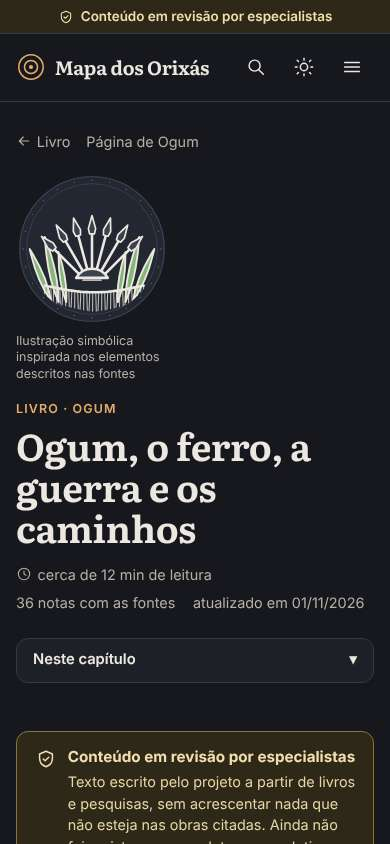
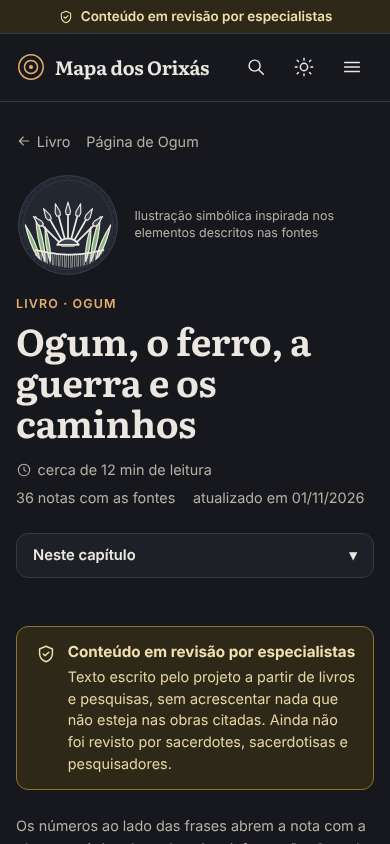
Ilustrações: relatório, screenshots, README, ESTADO e PENDENCIAS
Claude-Session: https://claude.ai/code/session_011fM5ckSQifz6KKDaWWmYVy

Changed region(s): [[0.0308, 0.2156, 0.9846, 1.0], [0.8923, 0.6469, 0.9231, 0.6777]]

diff --git a/docs/pesquisa/ilustracoes-01.md b/docs/pesquisa/ilustracoes-01.md
@@ -1,0 +1,81 @@
+# Ilustrações 01 — uma ilustração simbólica por orixá
+
+**Sessão:** ilustra (trabalhadora, coordenada pela orquestradora), 2026-11-02.
+**Pedido do autor:** uma ilustração de boa qualidade para cada orixá com ficha/capítulo e, se fizer sentido, para as entidades da cosmologia.
+**Resultado:** 22 ilustrações (17 orixás + Orum, Aiê, Odudua, Olokun e Orí), no topo da página de cada um, no cartão do catálogo e na abertura do capítulo. Sem ilustração: Iyami (tema sensível), Ewá (sem símbolos fichados), Olodumare e Egungun (motivos em §4). `data/fichamento/`, capítulos, catálogo e itãs **não foram tocados**.
+
+## 1. Critérios
+
+1. **Emblema, não retrato.** Nenhum rosto ou corpo de divindade, nenhuma cena de culto, transe, dança ou ritual. Cada ilustração é uma composição de objetos, plantas, paisagens e sinais (ferramentas, emblemas, águas, árvores, céu).
+2. **Só o que está fichado.** Todo elemento desenhado tem pelo menos um registro com status `fichado` em `data/fichamento/` (atributos `simbolos`, `elementos`, `dominios`, `iconografia`; em alguns casos `itans`, `hierarquia` ou `funcoes`, quando o elemento só aparece ali). `data/ilustracoes.json` lista, para cada elemento, os ids que o sustentam; o QA confere que existem e estão fichados. Detalhes que as fontes não dão ficaram de fora ou foram desenhados de modo genérico, sem afirmar nada (ex.: o número de varetas do chachará, de contas do opelê ou de búzios em Orí é só gráfico, e isso está anotado).
+3. **Cores sem "cor oficial".** Base na paleta do site (papel quente, traço da página, tom claro de "metal"). **No máximo um acento**, e só quando a cor aparece em **mais de uma tradição** nos registros de `cores`: verde (Ogum, Oxóssi), vermelho (Exu, Xangô, Iansã), azul (Iemanjá), ouro (Oxum), violeta (Nanã). Nos demais, sem acento de cor do orixá: o ocre do site aparece só como cor de material (palha, barro, terra, folhas, nozes). A justificativa e os registros de cor estão em `data/ilustracoes.json`. Em Exu, o preto não entra para não reforçar a leitura demonizada que as fontes discutem.
+4. **Evitar estereótipo.** Nada de exotismo, caricatura ou figuras "tribais". Em Exu ficaram fora o tridente, chifres e falo (imagens da leitura europeia e da associação ao diabo, que as fontes registram e criticam); em Omolu, a figura coberta de palha (só a palha como material); em Ibeji, as estatuetas (só motivos abstratos e os três pratinhos de barro).
+
+## 2. Técnica
+
+- **SVG vetorial desenhado em código**, sem imagens de terceiros, bancos de imagem ou obras de referência: `site/scripts/ilustracoes/desenhos.py` (uma função por entidade, coordenadas escritas à mão, com geometria calculada onde ajuda: leques, anéis, ondas) e `base.py` (medalhão comum). `gerar.py` grava `site/src/assets/ilustracoes/<id>.svg` usando o texto alternativo de `data/ilustracoes.json`.
+- **Estilo coeso:** medalhão 200×200 com disco, dois anéis e uma coroa de pontos (o mesmo vocabulário de círculos concêntricos da capa), traço arredondado de espessura constante, tom claro para metais e objetos, um acento.
+- **Claro e escuro:** o traço é `currentColor`; fundo, anéis, tom claro e acentos usam variáveis `--il-*` definidas em `global.css` para os dois temas (com valores de reserva no próprio SVG, para o arquivo solto).
+- **Acessibilidade:** cada SVG tem `role="img"` e `<title>` com id único, ligado por `aria-labelledby`; o texto alternativo descreve o que se vê ("Ilustração simbólica de Ogum: emblema de ferro com sete pontas…"). Na página e no capítulo vai dentro de `<figure>` com a legenda "Ilustração simbólica inspirada nos elementos descritos nas fontes"; no catálogo, um parágrafo acima da grade explica que as imagens são ilustrações simbólicas, nunca retratos.
+- **Peso:** 3–10 KB por SVG, inline (sem pedido extra). O svgo não estava instalado no ambiente; o gerador já escreve números com uma casa decimal e sem atributos redundantes. Fica como melhoria opcional.
+- **Revisão de qualidade:** 3 pilotos (Ogum, Iemanjá, Xangô) renderizados em PNG (claro/escuro, 320 px e 72 px) por `site/scripts/ilustracoes/renderizar.cjs` e revistos antes da série; cada lote seguinte também foi renderizado e corrigido (ex.: em Ogum as folhas brigavam com o leque e o centro parecia um sol; em Xangô o raio era cortado pela borda; em Oxumarê as cabeças de serpente ficaram caricatas e viraram pontas estilizadas; em Exu o montículo parecia um cogumelo).
+
+## 3. Elementos por ilustração
+
+| Entidade | Elementos (registros) | Acento | Observações / o que ficou de fora |
+|---|---|---|---|
+| **Ogum** | emblema de ferro com sete pontas (ogum-022, ogum-016); espada-de-ogum (Sansevieria) (ogum-023, ogum-027, ogum-042); mariô (ogum-041) | verde | — |
+| **Iemanjá** | lua crescente com estrela (emblema; metal: prata) (iemanja-021); águas do mar (iemanja-014, iemanja-017, iemanja-010); otá: seixo marítimo (iemanja-024) | azul | — |
+| **Xangô** | oxê (machado) (xango-025); raio (xango-018, xango-020, xango-023, xango-044); otá: pedra de raio; matéria: pedra (xango-033, xango-025) | vermelho | — |
+| **Exu** | encruzilhada, caminhos (exu-033, exu-053, exu-058, exu-061); laterita (suporte do culto na África Ocidental) (exu-051); búzios (exu-051, exu-007) | vermelho | Tridente/garfo (exu-025) e figuras com chifres ou falo (exu-004, exu-017, exu-043, exu-051) ficaram de fora: são as imagens da leitura europeia e da associação ao diabo que as fontes registram e discutem (exu-002, exu-005, exu-016, exu-029, exu-077); o montículo é desenhado baixo, sem forma humana nem fálica. |
+| **Oxóssi** | arco e flecha (oxossi-014); eruquerê (espanta-moscas de rabo de boi, atributo real) (oxossi-014); mata, floresta (oxossi-011, oxossi-012) | verde | — |
+| **Oxum** | abebé (leque); metal ouro ou latão (oxum-007, oxum-036); águas doces: rios, cachoeiras, fontes (oxum-004, oxum-031, oxum-042, oxum-051); otá: seixo liso tirado do leito de um rio (oxum-008) | ouro | — |
+| **Iansã** | ventos, ventania, tempestade (iansa-005, iansa-022, iansa-032, iansa-039); relâmpago / centelha (iansa-005, iansa-022, iansa-039); espada (com que imita o relâmpago); armas (iansa-005, iansa-027) | vermelho | Os mortos e o cemitério (iansa-006, iansa-022) não foram figurados, para não aproximar a imagem do culto aos mortos. |
+| **Nanã** | chachará: feixe de varetas amarradas (nana-016); águas das chuvas e do dilúvio (nana-023) | violeta | A ligação com a morte e os ritos fúnebres (nana-013, nana-030) não foi figurada; o número de varetas é só gráfico (as fontes não o dão). |
+| **Omolu / Obaluaê** | palha (matéria) (omolu-035, omolu-010); xaxará: feixe de varetas, vassoura (omolu-012, nana-016); otá cheio de buraquinhos (omolu-013); terra (Sakpata-Omolu como 'rei da terra') (omolu-006) | neutro (ocre do site) | A figura coberta de palha, o rosto marcado e a dança (omolu-010, omolu-011, omolu-029) não foram desenhados: são retrato e cena de culto. Doença e cemitério (omolu-005, omolu-007) não foram figurados. |
+| **Oxalá** | cabaça dupla: duas metades encaixadas, céu e terra (oxala-011); céu, abóbada celeste (oxala-006, oxala-044); pomba no alto do emblema (oxala-046); paxorô (vara de metal) (oxala-012); algodão (oxala-046, oxala-032) | neutro (ocre do site) | A pomba fica acima da cabaça, sem afirmar que o emblema e o paxorô sejam o mesmo objeto (as fontes falam deles separadamente). |
+| **Ossaim** | ferro de Ossaim: haste pontuda cravada no chão, pássaro no alto, ramos em leque (ossaim-020, ossaim-021, ossaim-023); ervas, folhas, mato selvagem (ossaim-001, ossaim-002, ossaim-003, ossaim-004) | neutro (ocre do site) | Seis ramos seguem Sallum & Silva ('muitas vezes seis', ossaim-023); Bastide fala em sete (ossaim-020). A figura de um olho e uma perna (ossaim-030, ossaim-032) não foi desenhada. |
+| **Oxumarê** | arco-íris que liga céu e terra (oxumare-003, oxumare-011, oxumare-022); serpente; dois bastões de ferro que figuram cobras (oxumare-026, oxumare-011, oxumare-022) | neutro (ocre do site) | — |
+| **Logunedé** | pena de ave de caça (sinal do pai) (logunede-006); ofá (logunede-018); abebé (logunede-018) | neutro (ocre do site) | — |
+| **Obá** | as nuvens revoltas que se encontram (oba-016); o rio Oba (oba-011) | neutro (ocre do site) | A dança com a mão sobre a orelha e o itã da orelha cortada (oba-003, oba-004) não foram figurados: são cena de culto e corpo. |
+| **Iroko / Tempo** | a gameleira, adorada como Iroko (iroko-001); entre as divindades que ligam céu e terra; reino da vegetação (iroko-005, iroko-006) | neutro (ocre do site) | A árvore como morada de antepassados (iroko-009) é depoimento único e não foi figurada; nenhum pano ou oferenda junto à árvore, por não estar fichado. |
+| **Ibeji** | divindade tutelar dos gêmeos (ibeji-027, ibeji-036); um terceiro personagem menor entre os dois (Doú) (ibeji-010, ibeji-011, ibeji-016); assentamento em três pratinhos de barro (ibeji-023) | neutro (ocre do site) | As estatuetas e imagens esculpidas (ibeji-011, ibeji-030, ibeji-037) não foram desenhadas, por serem figuras humanas e objetos de culto; o caruru e o macaco (ibeji-004, ibeji-029) ficaram de fora. |
+| **Orunmilá / Ifá** | opelê, colar de Ifá usado na adivinhação (orunmila-001); nozes de palmeira usadas na adivinhação (itã) (orunmila-004) | neutro (ocre do site) | A forma exata do opelê (número e tipo de peças) e os sinais dos odus não estão fichados e não foram desenhados; nada de cena de consulta. |
+| **Orum** | òrun: o céu imaginado como abóbada sólida sobre a terra (orum-001); céu visível e morada da divindade suprema (orum-002, orum-006) | neutro (ocre do site) | Os 'dois céus' e a terra dos mortos (orum-003, orum-004) não foram figurados. |
+| **Aiê** | Aiyê: o mundo físico, em contraponto ao Orum (aie-001, aie-002); aiye: 'o mundo', abrangendo a terra e os céus (aie-003) | neutro (ocre do site) | — |
+| **Odudua** | terra lançada sobre a água (mito da criação) (odudua-017); coquinho de dendê que vira palmeira de 16 ramos laterais (odudua-017); a terra, metade inferior do casal primordial (odudua-011, odudua-001) | neutro (ocre do site) | O galo do mesmo mito (odudua-017) ficou de fora para não carregar a composição; as versões masculina e feminina (odudua-014) não são figuradas, já que não há figura. |
+| **Olokun** | o mar (olokun-001, olokun-005); sete correntes de ferro (mito do dilúvio) (olokun-006) | neutro (ocre do site) | — |
+| **Orí** | meia cabaça coberta de búzios (ori-002) | neutro (ocre do site) | A coroa de 41 búzios guardada no Ile Ori (ori-004) não foi desenhada: a contagem e a forma exigiriam detalhe que é melhor conferir com praticantes; o número de búzios no desenho é só gráfico. |
+
+## 4. Sem ilustração
+
+| Entidade | Motivo |
+|---|---|
+| Iyami | Tema sensível (data/entidades.json, sensivel=true), à espera da decisão do conselho consultivo; o site nunca mostra ilustração de entidade sensível. |
+| Ewá | Sem símbolos, elementos, domínios ou iconografia fichados (só parentesco e alimento: ewa-005, ewa-008). Fica para quando houver obra lida (Verger 1981, Prandi 2001; ver PENDENCIAS). |
+| Olodumare / Olorum / Olofin | As fontes registram que Olodumare não tem imagens, templos nem culto direto (olodumare-001, olodumare-006, olodumare-019); uma ilustração contrariaria o que está fichado. |
+| Egungun | Os únicos elementos visuais fichados são os mascarados do culto (egungun-006, egungun-009), que é reservado; desenhá-los seria figurar cena de culto. Decisão a confirmar com praticantes. |
+| cosmologia | Capítulo-panorama, não entidade; as ilustrações de Orum, Aiê, Odudua, Olokun e Orí aparecem nas páginas deles. |
+
+## 5. Site, QA e acessibilidade
+
+- `site/src/components/Ilustracao.astro` + `site/src/lib/ilustracoes.js`: entidade sensível nunca recebe ilustração, mesmo que exista o arquivo (defesa em profundidade).
+- Página do orixá: ilustração à direita do título (abaixo no celular), com legenda. Catálogo: medalhão de 72 px ao lado do nome. Capítulo: medalhão de 104 px com a legenda ao lado, acima do sobretítulo.
+- **`scripts/qa_site.py` §14:** toda ilustração tem `<title>` igual ao texto alternativo do JSON, `role="img"` e `aria-labelledby`; nenhuma para entidade sensível ou listada em `sem_ilustracao`; todo registro citado existe e está fichado; SVG sem imagens externas; a página, o cartão e o capítulo de cada entidade ilustrada mostram a ilustração (com legenda na página e no capítulo); ids de título únicos por página. **Testado por adulteração** (ilustração para Iyami, registro inexistente, título trocado): 10 erros acusados.
+- axe, testes e e2e: ver §7.
+
+## 6. Screenshots
+
+Em [`docs/screenshots/ilustracoes/`](../screenshots/ilustracoes/): `galeria-grande-{claro,escuro}.jpg` e `galeria-pequeno-{claro,escuro}.png` (todas as 22, em 320 e 72 px); topo do catálogo e das páginas e capítulos de Ogum, Iemanjá, Xangô, Oxalá e Odudua em desktop/celular, claro/escuro (`site/scripts/screenshots-ilustracoes.cjs`; com `BASE=<url>` tira da URL publicada).
+
+## 7. Validadores e testes
+
+Ver o fechamento no fim deste relatório.
+
+## 8. Limitações e próximos passos
+
+- **Revisão por praticantes (P1):** a série é um rascunho do projeto. Símbolos podem ter sentidos ou restrições que as obras não registram; o conselho deve poder vetar qualquer elemento. Remover um elemento é simples (apagar o trecho em `desenhos.py` e rodar `gerar.py`).
+- **Oxê de uma lâmina:** desenhado assim porque o fichamento só diz "uma espécie de machado"; ver PENDENCIAS §3b.
+- **Cores:** o acento escolhido é sempre uma cor que aparece em mais de uma tradição, mas nunca substitui a variação: as páginas continuam mostrando todas as cores, por tradição.
+- **Encomenda a artistas afro-brasileiros:** sugestão ao autor substituir ou complementar esta série por ilustrações encomendadas e pagas a artistas ligados às tradições, com licença clara; `data/ilustracoes.json` serve como briefing (elementos, registros, o que evitar).
+- **Leitor de tela real:** conferir com NVDA/VoiceOver como o texto alternativo é lido no cartão do catálogo (hoje ele é lido antes do nome).

diff --git a/docs/ESTADO.md b/docs/ESTADO.md
@@ -2,7 +2,7 @@
 
 > Arquivo de passagem entre sessões. **Toda sessão começa lendo este arquivo e termina atualizando-o.** Mantenha-o curto, com no máximo uma página: o detalhe fica nos relatórios linkados.
 
-**Última atualização:** 2026-11-02 (sessão **redesign**: novo visual (Literata + Inter auto-hospedadas, claro/escuro, mobile-first, capítulos com leitura de livro e notas que abrem ao toque) e linguagem para leigos em todo o site; Metodologia fundida ao Sobre; Baixar dados só no rodapé ("Dados abertos"); sem issues do GitHub nem códigos internos na interface; `qa_site.py` §13 (linguagem); axe 0 violações, Lighthouse ≥ 91 ([relatório](pesquisa/redesign-01.md)); sessão **cap05**: validador de capítulos com acentos iorubás (NFD) e nomes curtos de tradição (Oyó, Ifé); aviso de tema sensível na página do capítulo; capítulo-panorama `cosmologia.md` em `/cosmologia/capitulo/`; OCR de Ogungbemi 2021 no acervo; QA de vazamento passa a ler o acervo `orixas-fontes` ([relatório](pesquisa/capitulos-05.md)); sessão **cap04**: capítulos da cosmologia e hierarquia — Olodumare, Orum, Aiê, Orí, Odudua, Olokun e Egungun; Iyami à espera do conselho; panorama `cosmologia.md` proposto ([relatório](pesquisa/capitulos-04.md)); sessão **cap01**: capítulos narrativos — formato, validador, página do capítulo, índice "Livro" e os 5 primeiros capítulos (Exu, Ogum, Oxóssi, Xangô, Iemanjá), sem citação no corpo do texto ([relatório](pesquisa/capitulos-01.md), [guia](capitulos-guia.md)); sessão **acervo2**: scripts do acervo passam a usar o repo privado `orixas-fontes` (`ACERVO_DIR`, `acervo_sync.sh`); carga do repo privado bloqueada por permissão ([relatório](pesquisa/acervo-02.md)); sessão **compl01**: Chiousse 1995, Halloy 2005, Toutain 2019 e Ferreira 2017 relidos pelo acervo — +131 registros para Oxalá, Oxum, Iansã, Omulu, Nanã, Orunmilá (ficha nova) e complementos; +4 itãs; festa de Elegguá ([relatório](pesquisa/complemento-01.md)); sessão **acervo**: acervo interno de texto integral `acervo/` — estrutura, script, índice e proteções; conteúdo só local porque o repositório é público ([relatório](pesquisa/acervo-01.md)); sessão **integBC**: itãs e arestas dos lotes B e C integrados, entidade Orí criada ([relatório](pesquisa/integracao-BC.md)); antes, sessões **loteB**, **loteC**, **loteA** e **varredura4**; loteB: Ossaim, Obá, Ibeji, Iroko, Logunedé, Oxumarê e Ewá, 176 registros ([relatório](pesquisa/lote-B.md)); loteC: cosmologia e hierarquia, 67 registros ([relatório](pesquisa/lote-C.md)); loteA: Oxalá, Oxum, Iansã, Nanã e Omolu fichados; antes: modelo2, trad02, fichamento-06/07/08, revisao, anticopia, anticopia2 e pages)
+**Última atualização:** 2026-11-02 (sessão **ilustra**: 22 ilustrações simbólicas em SVG (17 orixás + Orum, Aiê, Odudua, Olokun, Orí), composições só com símbolos fichados, sem retrato nem cena de culto, no topo da página, no cartão do catálogo e no capítulo; metadados e registros em `data/ilustracoes.json`; sem ilustração: Iyami, Ewá, Olodumare, Egungun; `qa_site.py` §14 ([relatório](pesquisa/ilustracoes-01.md)); sessão **redesign**: novo visual (Literata + Inter auto-hospedadas, claro/escuro, mobile-first, capítulos com leitura de livro e notas que abrem ao toque) e linguagem para leigos em todo o site; Metodologia fundida ao Sobre; Baixar dados só no rodapé ("Dados abertos"); sem issues do GitHub nem códigos internos na interface; `qa_site.py` §13 (linguagem); axe 0 violações, Lighthouse ≥ 91 ([relatório](pesquisa/redesign-01.md)); sessão **cap05**: validador de capítulos com acentos iorubás (NFD) e nomes curtos de tradição (Oyó, Ifé); aviso de tema sensível na página do capítulo; capítulo-panorama `cosmologia.md` em `/cosmologia/capitulo/`; OCR de Ogungbemi 2021 no acervo; QA de vazamento passa a ler o acervo `orixas-fontes` ([relatório](pesquisa/capitulos-05.md)); sessão **cap04**: capítulos da cosmologia e hierarquia — Olodumare, Orum, Aiê, Orí, Odudua, Olokun e Egungun; Iyami à espera do conselho; panorama `cosmologia.md` proposto ([relatório](pesquisa/capitulos-04.md)); sessão **cap01**: capítulos narrativos — formato, validador, página do capítulo, índice "Livro" e os 5 primeiros capítulos (Exu, Ogum, Oxóssi, Xangô, Iemanjá), sem citação no corpo do texto ([relatório](pesquisa/capitulos-01.md), [guia](capitulos-guia.md)); sessão **acervo2**: scripts do acervo passam a usar o repo privado `orixas-fontes` (`ACERVO_DIR`, `acervo_sync.sh`); carga do repo privado bloqueada por permissão ([relatório](pesquisa/acervo-02.md)); sessão **compl01**: Chiousse 1995, Halloy 2005, Toutain 2019 e Ferreira 2017 relidos pelo acervo — +131 registros para Oxalá, Oxum, Iansã, Omulu, Nanã, Orunmilá (ficha nova) e complementos; +4 itãs; festa de Elegguá ([relatório](pesquisa/complemento-01.md)); sessão **acervo**: acervo interno de texto integral `acervo/` — estrutura, script, índice e proteções; conteúdo só local porque o repositório é público ([relatório](pesquisa/acervo-01.md)); sessão **integBC**: itãs e arestas dos lotes B e C integrados, entidade Orí criada ([relatório](pesquisa/integracao-BC.md)); antes, sessões **loteB**, **loteC**, **loteA** e **varredura4**; loteB: Ossaim, Obá, Ibeji, Iroko, Logunedé, Oxumarê e Ewá, 176 registros ([relatório](pesquisa/lote-B.md)); loteC: cosmologia e hierarquia, 67 registros ([relatório](pesquisa/lote-C.md)); loteA: Oxalá, Oxum, Iansã, Nanã e Omolu fichados; antes: modelo2, trad02, fichamento-06/07/08, revisao, anticopia, anticopia2 e pages)
 
 ## Onde estamos
 
@@ -55,7 +55,7 @@ Registros por entidade: Exu 103 · Ogum 66 · Iemanjá 64 · Oxalá 64 · Xangô
 5. **Resolver os 16 `pre_fichamento`** e as **fontes P1 bloqueadas** (Prandi 1995, Giumbelli & Lima 2024, Noleto & Negrão 2025, Ferreira 2017, Ribas 2010; Halloy e Toutain no HAL) → PENDENCIAS §1–2. *(Busca de texto aberto feita em 2026-11-01; fontes abertas da varredura 3 esgotadas.)*
 6. ~~**Nova varredura de fontes para a expansão**~~: feita na **varredura 4** (2026-11-01, [relatório](pesquisa/relatorio-varredura-04.md)): +106 fontes, 13 obras em domínio público com texto integral, cobertura por entidade e lotes A–D (acima). Repetir BDTD e OpenAlex quando acessíveis (`coletar.py --bases bdtd,openalex` com as consultas `v4-*`).
 7. **Fase 2 (restante):** 3 tradições sem fonte (Arará, Orisha de Trinidad, `benim`), Efon (Lima 2014), termos pendentes do glossário → PENDENCIAS.
-8. **Site:** **canal de correções para leigos (P1, autor: o redesign tirou as issues do site)**; versões es/en; licença dos dados (P1 com o site público) e domínio → PENDENCIAS §3b. Sugestão às sessões de conteúdo: tirar "fichamento", códigos de registro e "confiabilidade C" dos capítulos e observações (PENDENCIAS §3b, redesign).
+8. **Site:** **revisão das ilustrações simbólicas por praticantes (P1; PENDENCIAS §3b, ilustra)** e oxê de Xangô a fichar; **canal de correções para leigos (P1, autor: o redesign tirou as issues do site)**; versões es/en; licença dos dados (P1 com o site público) e domínio → PENDENCIAS §3b. Sugestão às sessões de conteúdo: tirar "fichamento", códigos de registro e "confiabilidade C" dos capítulos e observações (PENDENCIAS §3b, redesign).
 9. **Conselho consultivo:** contato com candidatos ([`conselho/candidatos.md`](conselho/candidatos.md)) e decisões de §3c, agora incluindo a escolha final do panteão da primeira leva e o que publicar sobre Iyami.
 
 **Sugestões da sessão trad02:**
@@ -159,6 +159,7 @@ Registros por entidade: Exu 103 · Ogum 66 · Iemanjá 64 · Oxalá 64 · Xangô
 | `tests/` | testes da revisão com fixtures sintéticas (`python3 -m unittest discover -s tests`) e ponta a ponta (`e2e_revisao_site.py`) |
 | `scripts/` | validação e geração; `qa_site.py` confere o site gerado; `baixar_refs.py` monta o acervo interno `acervo/` (texto integral; fora do git enquanto o repo for público) |
 | `site/` | protótipo do site (Astro); ver `site/README.md` |
+| `data/ilustracoes.json`, `site/scripts/ilustracoes/` | ilustrações simbólicas: metadados (elementos, registros, cor) e gerador dos SVG (`site/src/assets/ilustracoes/`) |
 | `docs/conselho/` | Fase 4: candidatos a revisor, kit do revisor (guia, sigilo, termo, convites pt/es), proposta de registro da revisão e passo a passo para registrar uma revisão |
 | `docs/publicacao.md` | deploy no GitHub Pages: URL, workflow, reversão, o que falta |
 | `.github/workflows/deploy-pages.yml` | validadores → build → QA → GitHub Pages |

diff --git a/docs/pesquisa/PENDENCIAS.md b/docs/pesquisa/PENDENCIAS.md
@@ -217,6 +217,17 @@ O protótipo em `site/` (Astro) compila no CI. **Sessão pages (2026-11-01): pub
 | 🟡 | Créditos de revisores nas versões | as linhas "Revisado por … (tradição) em …" seguem o consentimento de `data/revisores.json` e continuam no site (garantia do §9 do QA); hoje não há revisor cadastrado, então nada aparece. O autor confirma se o crédito por versão continua quando houver revisores | P3 |
 | 🟡 | Leitor de tela real | axe sem violações graves (claro em 2 larguras e amostra no escuro) e teste de teclado (`site/scripts/teclado.cjs`); falta conferir com NVDA/VoiceOver as caixas de nota e o menu do celular | P3 |
 
+### Ilustrações simbólicas (sessão ilustra, 2026-11-02; [relatório](ilustracoes-01.md))
+
+| Status | Item | O que falta | Prioridade |
+|:-:|---|---|:-:|
+| 🔴 | **Revisão das 22 ilustrações por praticantes** | as ilustrações são composições de símbolos fichados (`data/ilustracoes.json` lista os registros de cada elemento), feitas pelo projeto sem consulta a babalorixás/iyalorixás. Levar a série ao conselho junto com o conteúdo; qualquer símbolo contestado sai (basta apagar o elemento em `site/scripts/ilustracoes/desenhos.py` e regenerar). | P1 |
+| 🟡 | **Oxê de Xangô de uma lâmina** | o fichamento diz só "uma espécie de machado" (xango-025); a forma de duas lâminas, comum na iconografia, não tem registro fichado. Fichar uma descrição do oxê (Verger 1981, Beniste, Cacciatore) e redesenhar se for o caso. | P2 |
+| 🟡 | **Ewá sem ilustração** | sem símbolos, elementos ou iconografia fichados (só ewa-005, ewa-008); depende das obras de §2 (Verger 1981, Prandi 2001). | P2 |
+| 🟡 | **Egungun e Olodumare sem ilustração (decisão a confirmar)** | Olodumare: as fontes dizem que não tem imagens (olodumare-001); Egungun: só os mascarados do culto reservado estão fichados. Confirmar com o conselho se deve continuar assim. | P3 |
+| 🟡 | **Iyami** | nenhuma ilustração enquanto o tema sensível aguarda o conselho (o QA §14 impede). | P3 |
+| 🟢 | Encomenda a artistas afro-brasileiros | sugestão: substituir ou complementar a série por obras encomendadas e remuneradas a artistas ligados às tradições, com licença clara; os metadados (elementos e registros) servem de briefing. Decisão e orçamento do autor. | P3 |
+
 ## 3c. Conselho consultivo (Fase 4): depende do autor
 
 Material pronto em [`docs/conselho/`](../conselho/). **Nenhuma pessoa ou instituição foi contatada.**

diff --git a/site/README.md b/site/README.md
@@ -41,3 +41,13 @@ Identidade visual e linguagem: ver `docs/pesquisa/redesign-01.md` (Literata + In
 | Rodapé: Dados abertos | `src/pages/baixar-dados.astro` + `src/pages/dados/[...arquivo].js` (lista em `src/lib/downloads.js`; não publica o fichamento bruto) |
 
 Testes do site (depois do build): `python3 ../scripts/qa_site.py`, `node scripts/acessibilidade.cjs` (axe), `node scripts/teclado.cjs` (teclado e toque), `node scripts/screenshots-redesign.cjs depois`.
+
+## Ilustrações simbólicas
+
+SVG desenhados em código, um por entidade (sem retrato nem cena de culto; só símbolos com registro fichado):
+
+- metadados, texto alternativo e registros de cada elemento: `../data/ilustracoes.json`;
+- desenhos: `scripts/ilustracoes/desenhos.py` (+ `base.py`, medalhão comum); gerar: `python3 scripts/ilustracoes/gerar.py [ids]` → `src/assets/ilustracoes/<id>.svg`;
+- revisar em PNG (claro/escuro, grande/pequeno): `node scripts/ilustracoes/renderizar.cjs <pasta> [ids]`;
+- screenshots no site: `node scripts/screenshots-ilustracoes.cjs [ids]` (depois do build);
+- o QA (`scripts/qa_site.py` §14) confere texto alternativo, registros fichados e ausência em entidade sensível.
